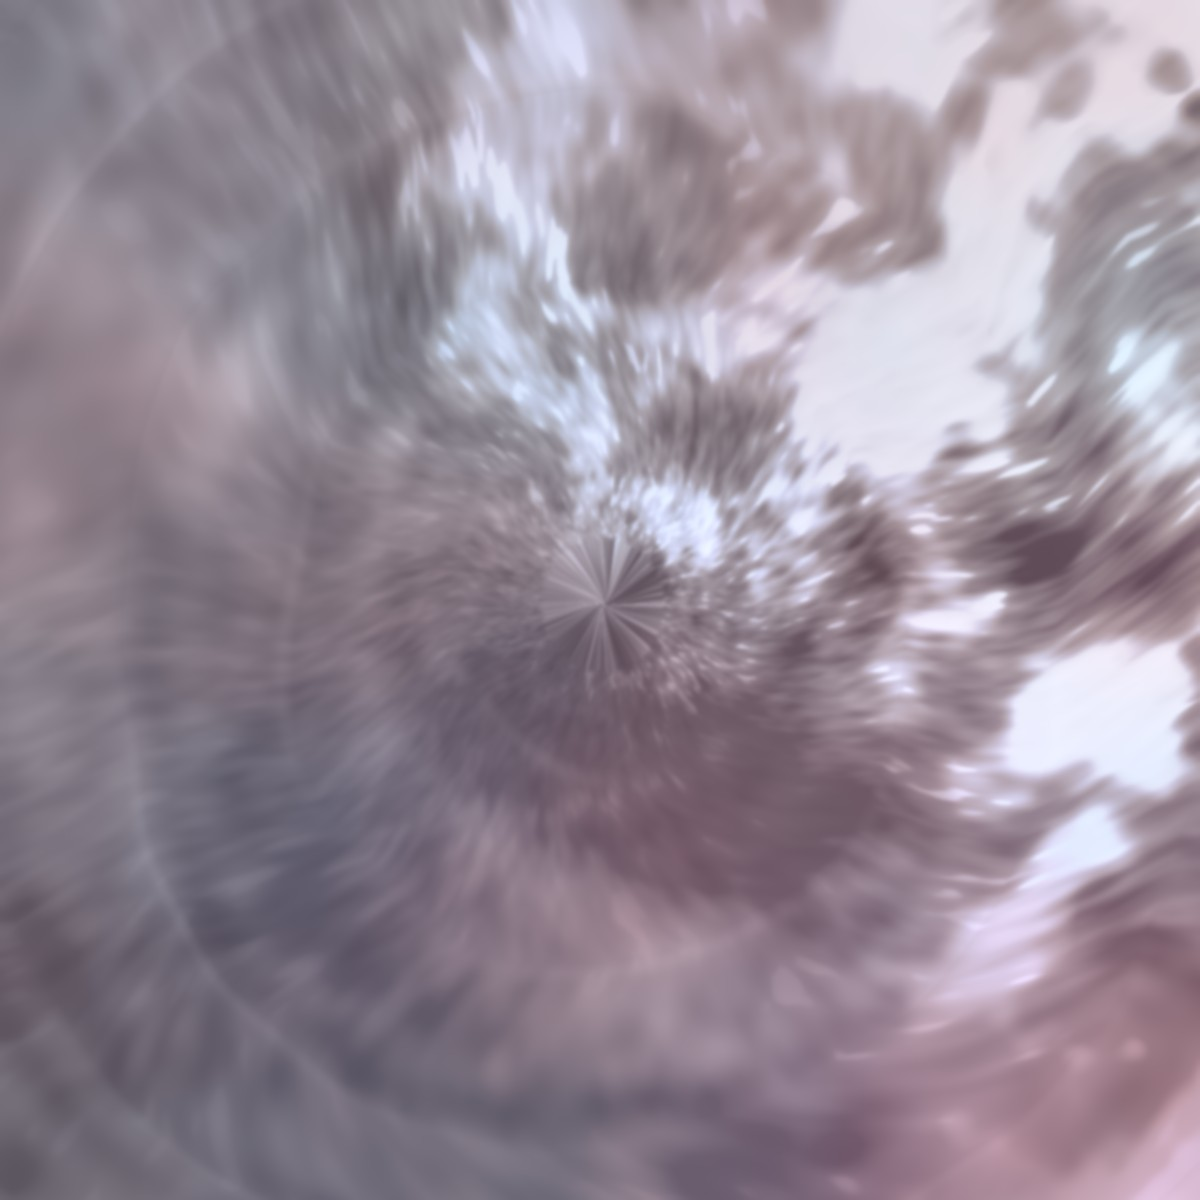
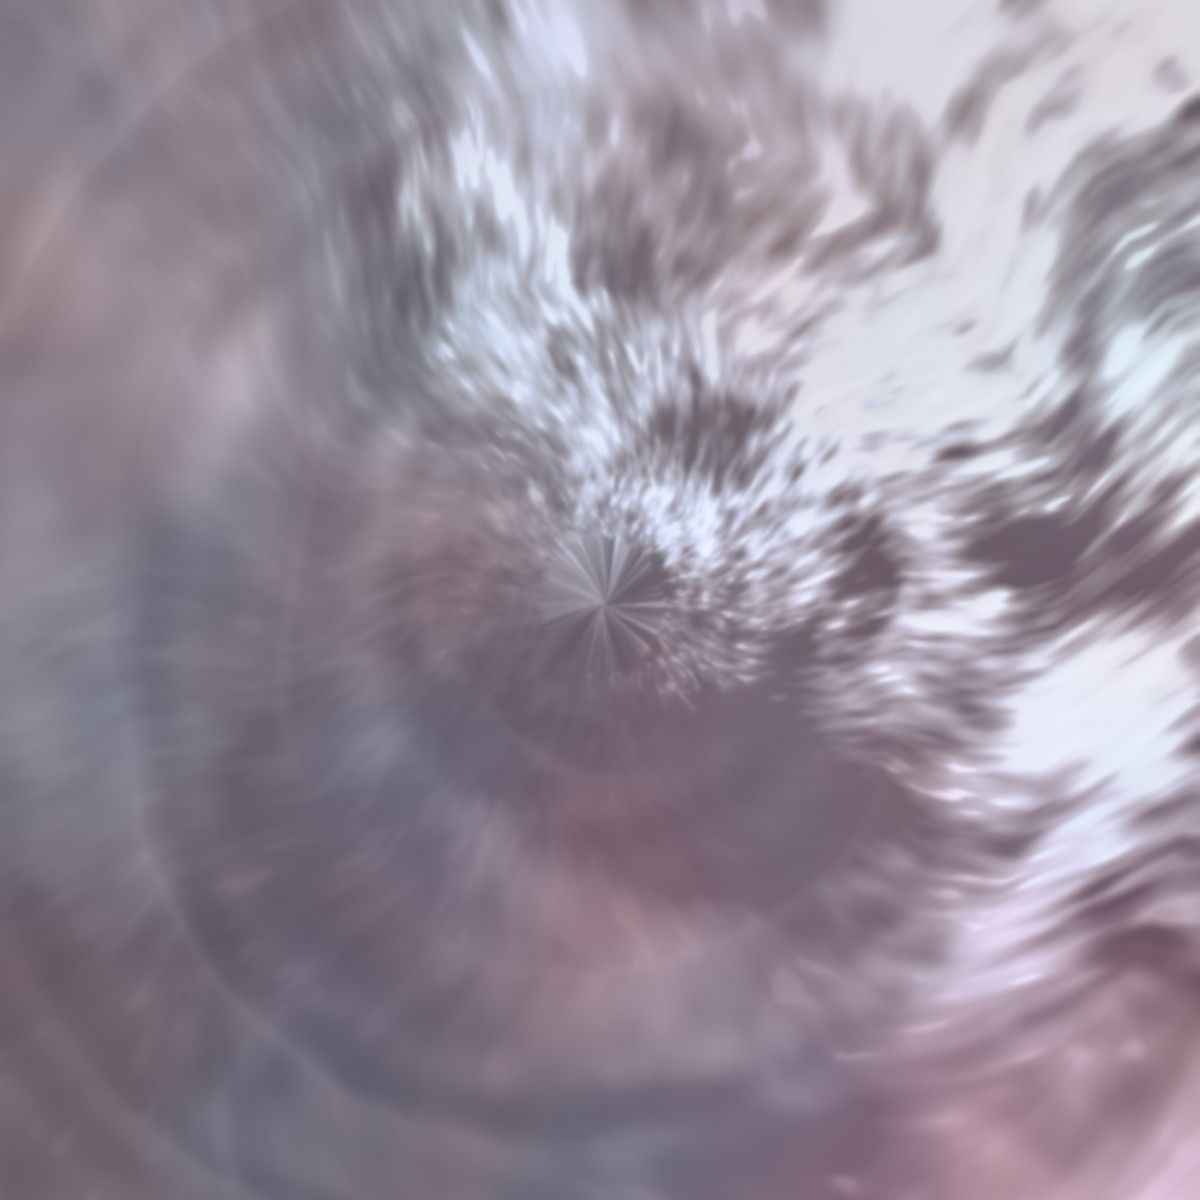
Website: mother-of-pearl section matched to reference (nacre, pearl frame, cameo, cover)

diff --git a/Wedding Website/style.css b/Wedding Website/style.css
@@ -82,13 +82,14 @@ body.revealed .c-line:nth-child(8) { transition-delay: .24s; }
   box-shadow: inset 0 1px 0 rgba(255,255,255,.22), inset 0 9px 12px -10px rgba(20,15,30,.55), inset 0 -1px 0 rgba(60,45,60,.25); }
 .pearl-frame { position: absolute; inset: 0; width: 100%; height: 100%; pointer-events: none; }
 .cameo {
-  position: absolute; left: 50.3%; top: 50.3%; width: 34.6%; aspect-ratio: 1 / 1.468; translate: -50% -50%;
+  position: absolute; left: 50.3%; top: 50.3%; width: 33.6%; aspect-ratio: 1 / 1.446; translate: -50% -50%;
   border-radius: 50%; overflow: hidden; background: #2b2630;
-  /* turned oval moulding, from the photo outwards: dark lip, two fine bright beads with a groove between, a broad grey-lilac band, outer edge */
-  box-shadow: 0 0 0 calc(var(--u) * .3) #8a8294, 0 0 0 calc(var(--u) * .6) #cfc8d8, 0 0 0 calc(var(--u) * .85) #786f81,
-              0 0 0 calc(var(--u) * 1.15) #c8c1d2, 0 0 0 calc(var(--u) * 1.4) #948c9e, 0 0 0 calc(var(--u) * 2.25) #a199ab,
-              0 0 0 calc(var(--u) * 2.48) #837a8c,
-              0 calc(var(--u) * .5) calc(var(--u) * 1.5) calc(var(--u) * 2.3) rgba(35,22,38,.38);
+  /* turned oval moulding, from the photo outwards: soft lip, narrow band, two fine bright beads with a groove between,
+     broad grey-lilac band, darker outer edge, soft shadow on the shell */
+  box-shadow: 0 0 0 calc(var(--u) * .14) #8c8496, 0 0 0 calc(var(--u) * .62) #a79fb1, 0 0 0 calc(var(--u) * .88) #cdc6d6,
+              0 0 0 calc(var(--u) * 1.1) #7a7183, 0 0 0 calc(var(--u) * 1.38) #c6bfd0, 0 0 0 calc(var(--u) * 1.6) #958d9f,
+              0 0 0 calc(var(--u) * 2.58) #a199ab, 0 0 0 calc(var(--u) * 2.8) #827a8b,
+              0 calc(var(--u) * .5) calc(var(--u) * 1.5) calc(var(--u) * 2.6) rgba(35,22,38,.38);
 }
 .cameo img { width: 100%; height: 100%; object-fit: cover; }
 .cameo canvas { position: absolute; inset: 0; width: 100%; height: 100%; touch-action: none; cursor: grab; transition: opacity .9s ease; }

diff --git a/Wedding Website/app.js b/Wedding Website/app.js
@@ -223,9 +223,9 @@
     const rs = W * 0.0076, rb = W * 0.0185, rg = W * 0.0175, rf = W * 0.017;
     const n = v => v.toFixed(2);
     let s = `<defs>
-      <radialGradient id="pgBody" cx="36%" cy="28%" r="82%"><stop offset="0" stop-color="#fff" stop-opacity=".34"/><stop offset=".42" stop-color="#ece6ee" stop-opacity=".12"/><stop offset=".78" stop-color="#8c7a8c" stop-opacity=".2"/><stop offset="1" stop-color="#3f2e42" stop-opacity=".55"/></radialGradient>
+      <radialGradient id="pgBody" cx="36%" cy="28%" r="82%"><stop offset="0" stop-color="#fff" stop-opacity=".42"/><stop offset=".42" stop-color="#ece6ee" stop-opacity=".2"/><stop offset=".8" stop-color="#9a8a9c" stop-opacity=".14"/><stop offset="1" stop-color="#3f2e42" stop-opacity=".42"/></radialGradient>
       <radialGradient id="pgSpec"><stop offset="0" stop-color="#fff" stop-opacity=".9"/><stop offset=".5" stop-color="#fff" stop-opacity=".4"/><stop offset="1" stop-color="#fff" stop-opacity="0"/></radialGradient>
-      <linearGradient id="pgRim" x1="0" y1="0" x2="1" y2="1"><stop offset="0" stop-color="#fff" stop-opacity=".5"/><stop offset=".45" stop-color="#7d6c7e" stop-opacity=".35"/><stop offset="1" stop-color="#33243a" stop-opacity=".8"/></linearGradient>
+      <linearGradient id="pgRim" x1="0" y1="0" x2="1" y2="1"><stop offset="0" stop-color="#fff" stop-opacity=".5"/><stop offset=".45" stop-color="#7d6c7e" stop-opacity=".25"/><stop offset="1" stop-color="#33243a" stop-opacity=".62"/></linearGradient>
       <linearGradient id="pgPetal" x1="0" y1="0" x2="1" y2="1"><stop offset="0" stop-color="#fff" stop-opacity=".62"/><stop offset="1" stop-color="#e3dbe6" stop-opacity=".32"/></linearGradient>
       <filter id="ps" x="-50%" y="-50%" width="200%" height="200%"><feDropShadow dx="${n(W * .0022)}" dy="${n(W * .004)}" stdDeviation="${n(W * .003)}" flood-color="#281b2c" flood-opacity=".55"/></filter></defs><g filter="url(#ps)">`;
     const bead = (x, y, R, big) => {

diff --git a/Wedding Website/tools/make_assets.py b/Wedding Website/tools/make_assets.py
@@ -310,20 +310,20 @@ def nacre(S=1200, P=None):
     calm = 1 - smooth01((span - 45) / 80)                   # 1 where the shell is quiet (left, bottom)
     lively = 1 - calm
     edge = 1 - 0.10 * np.exp(-bf / 0.22) * (0.3 + calm)     # each scale is a touch darker under the lip of the next one
-    f = (P["w_iso"] * iso + P["w_cloud"] * cloud + (P["w_feather"] * feather + P["w_fine"] * fine) * (0.75 - 0.25 * lively)
+    f = (P["w_iso"] * iso + P["w_cloud"] * cloud + (P["w_feather"] * feather + P["w_fine"] * fine) * (0.4 + 0.4 * lively)
          + P["w_ring"] * rings * (0.2 + 0.7 * calm))
     z = (f - f.mean()) / f.std()
-    flame = smooth01((0.8 * iso + 0.45 * cloud + 0.5 * mott + 0.16 * feather + 0.05) / 1.25)   # silver flames, feathered along the barbs
+    flame = smooth01((0.75 * iso + 0.5 * cloud + 0.3 * mott + 0.36 * feather + 0.1 * fine + 0.9) / 2.6)   # silver flames, feathered along the barbs
     t = P["t0"] + P["t1"] * z + P["t2"] * z * np.abs(z) + P["flame"] * lively * flame
     glint = smooth01((feather + 0.7 * fine + 0.5 * mott - 1.5) / 0.9)       # small wet highlights
-    t = t + lively * (0.08 * mott + 0.09 * feather + 0.05 * fine)             # the flames are mottled and barbed, never flat
-    t = np.clip(t * edge + 0.5 * glint * (0.15 + lively), -0.25, 1.4)
+    t = t + lively * (0.10 * mott + 0.12 * feather + 0.06 * fine)             # the flames are mottled and barbed, never flat
+    t = np.clip(t * edge + 0.5 * glint * (0.15 + lively), -0.1, 1.4)
     col = lo + (hi - lo) * t[..., None]
     ice = (smooth01((col.mean(2) - 165) / 70) * 0.8)[..., None]              # the brightest nacre turns a cool blue-white
-    col = col * (1 - ice) + np.minimum(col, 255) * np.array([0.91, 0.945, 1.035], np.float32) * ice
+    col = col * (1 - ice) + np.minimum(col, 255) * np.array([0.945, 0.96, 1.02], np.float32) * ice
     # growth rings where the shell is calm: broad soft bands, a pale lip on each scale, a little fog
     lip = np.exp(-((bf - 0.06) / 0.05) ** 2) * (0.5 + 0.5 * np.sin(a0 * 3 + bi * 2.4))
-    col += ((rings * 3.0 + lip * 7.0 + iso * 3.0 + cloud * 2.0 + feather * 2.0) * (0.2 + calm))[..., None]
+    col += ((rings * 3.0 + lip * 5.0 + iso * 3.0 + cloud * 2.0 + feather * 1.0) * (0.2 + calm))[..., None]
     # keep the broad light/dark layout of the shell on the measured palette (clouds must not drift it)
     want = cv2.GaussianBlur(lo + (hi - lo) * 0.38, (0, 0), S / 7)
     have = cv2.GaussianBlur(col, (0, 0), S / 7)
@@ -334,8 +334,9 @@ def nacre(S=1200, P=None):
     emb = np.clip((-gx * 0.6 - gy * 0.8) * 10, -1, 1)
     col *= (1 + P["emboss"] * emb)[..., None]
     # slow iridescent drift: rose <-> sea-green
-    hue = (noise(S, S, S // 5, 3, 75) - 0.5) * 1.6
-    col *= np.dstack([1 + 0.06 * hue, 1 - 0.035 * hue, 1 - 0.05 * hue])
+    hue = (noise(S, S, S // 5, 3, 75) - 0.5) * 1.6 - 0.4 * lively          # the lively nacre runs cooler (silver-blue)
+    hue2 = (noise(S, S, S // 7, 2, 77) - 0.5) * 2.2 * calm                    # rose and blue-grey bloom in the calm shell
+    col *= np.dstack([1 + 0.04 * hue + 0.05 * hue2, 1 - 0.025 * hue - 0.02 * hue2, 1 - 0.035 * hue - 0.045 * hue2])
     col = cv2.GaussianBlur(col, (0, 0), P["blur"])
     return np.clip(col, 0, 255)
 
